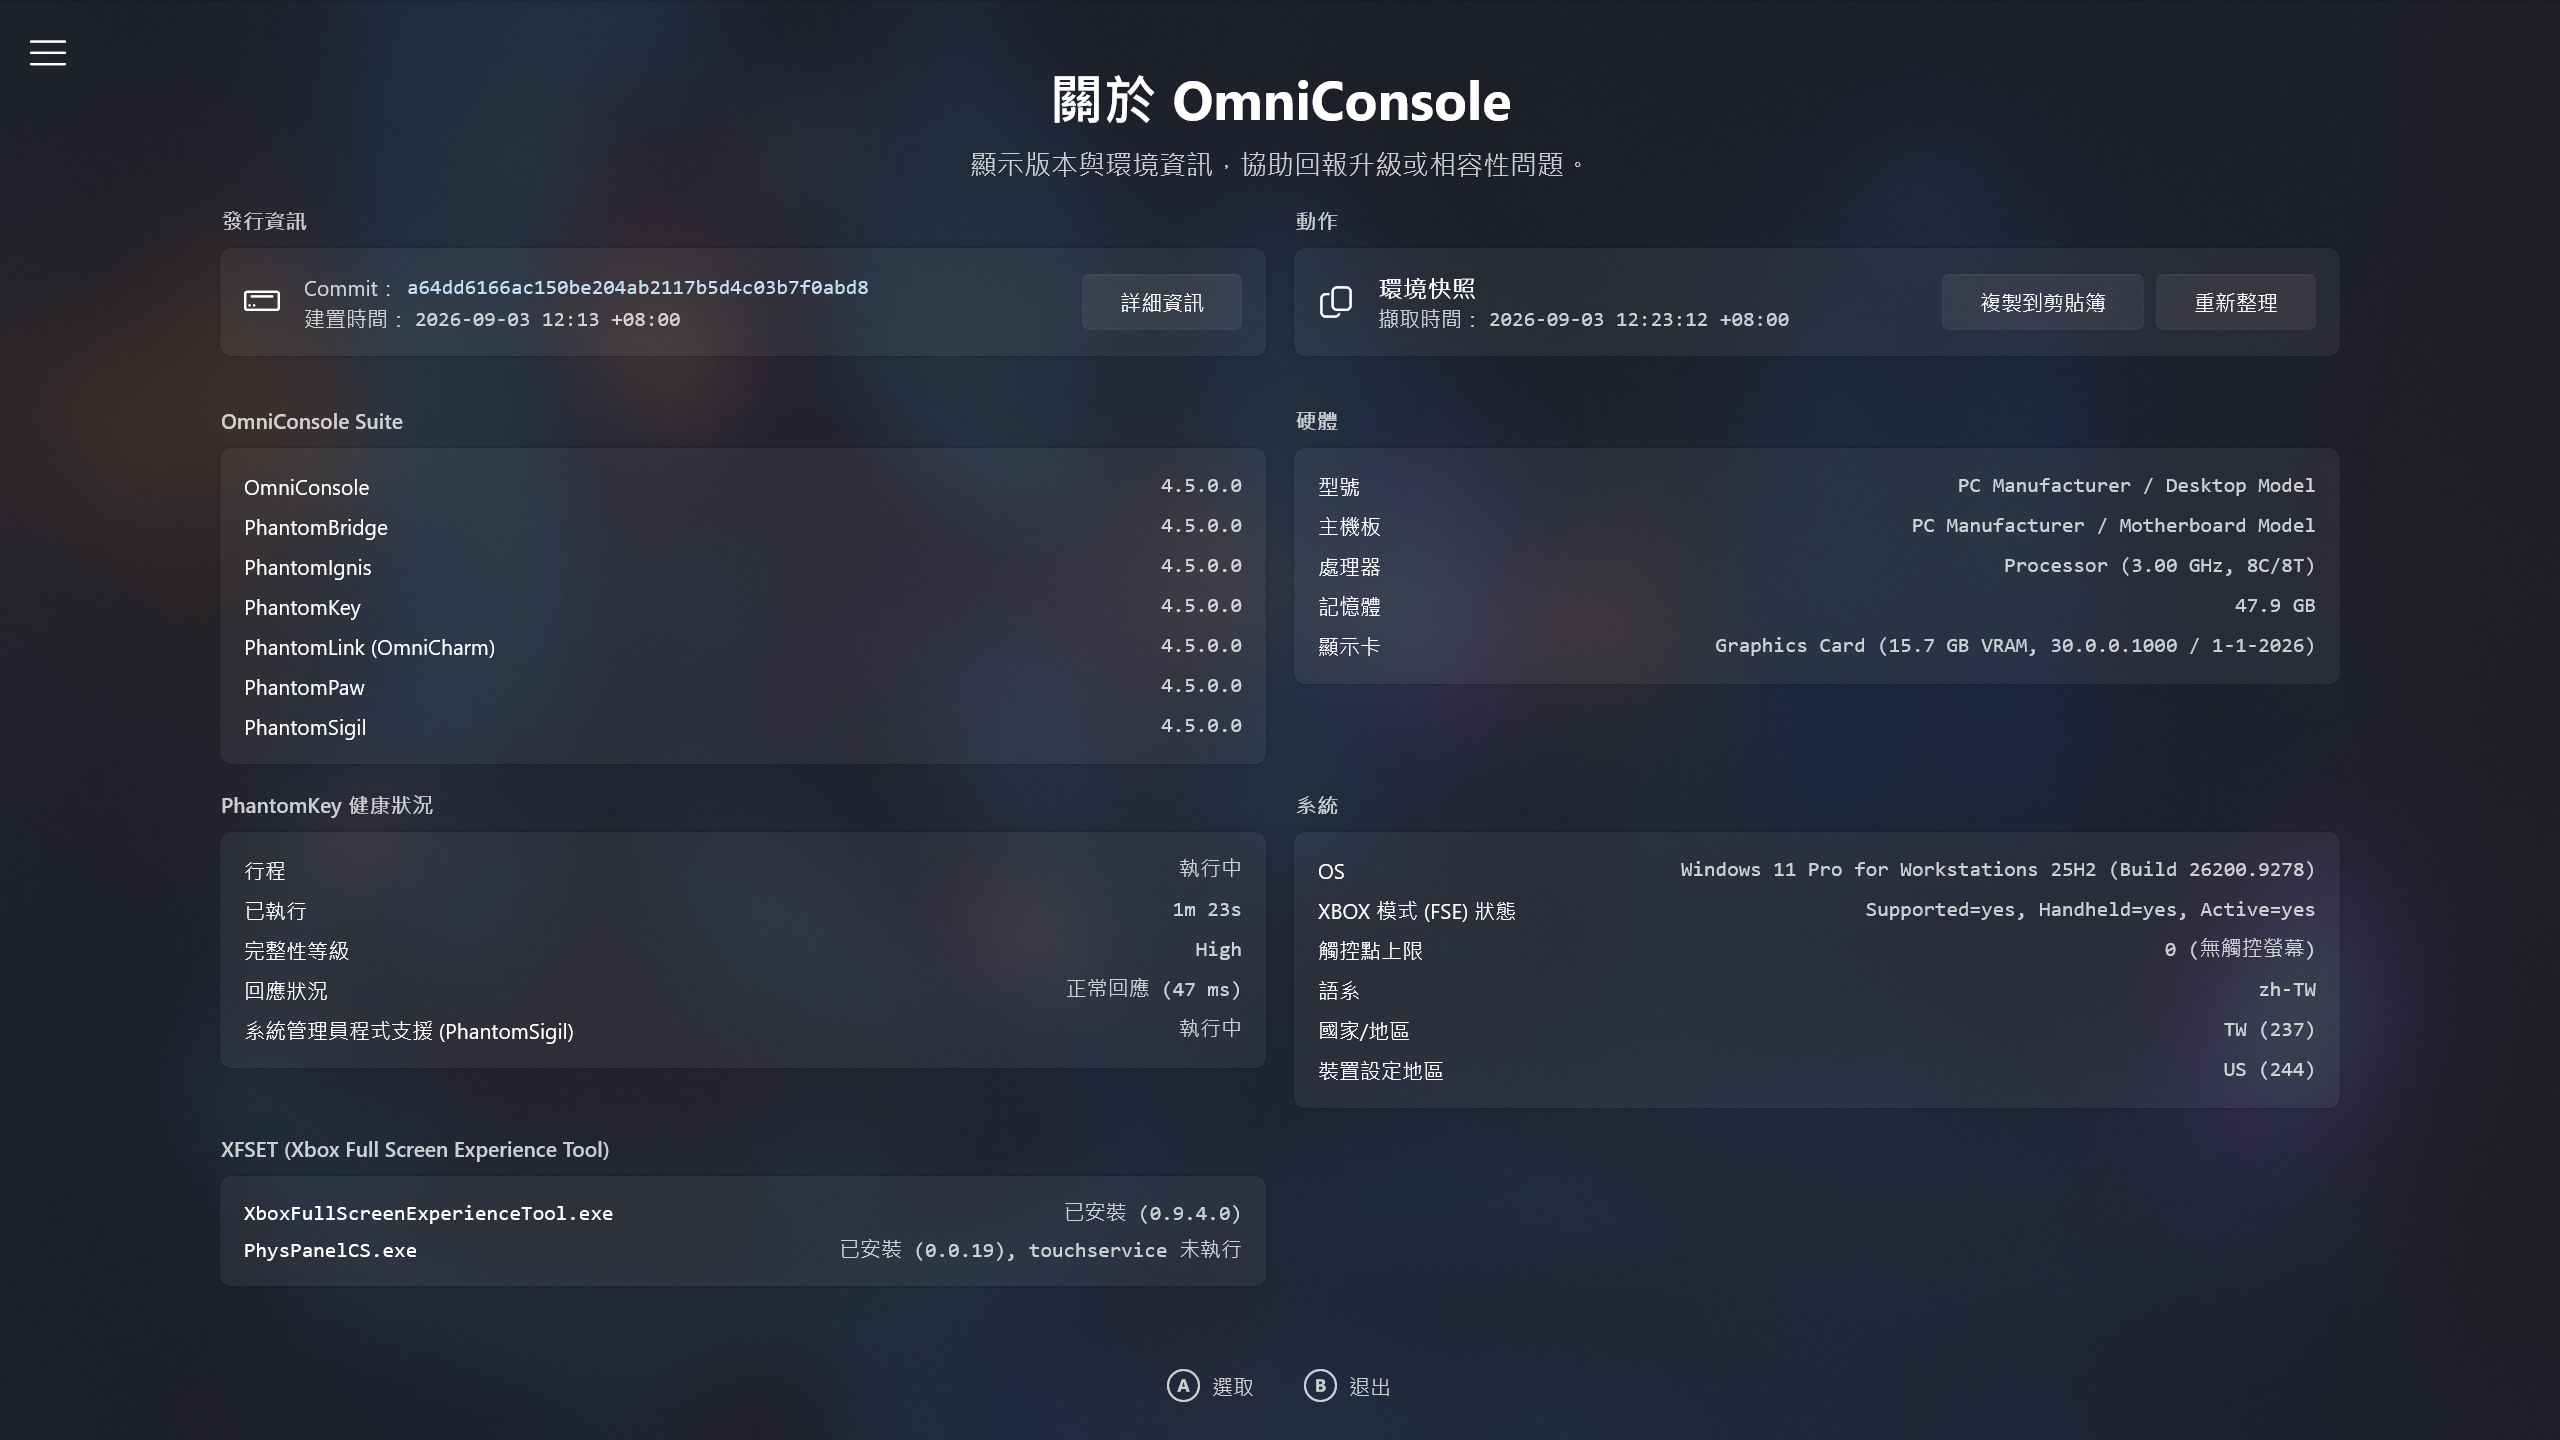
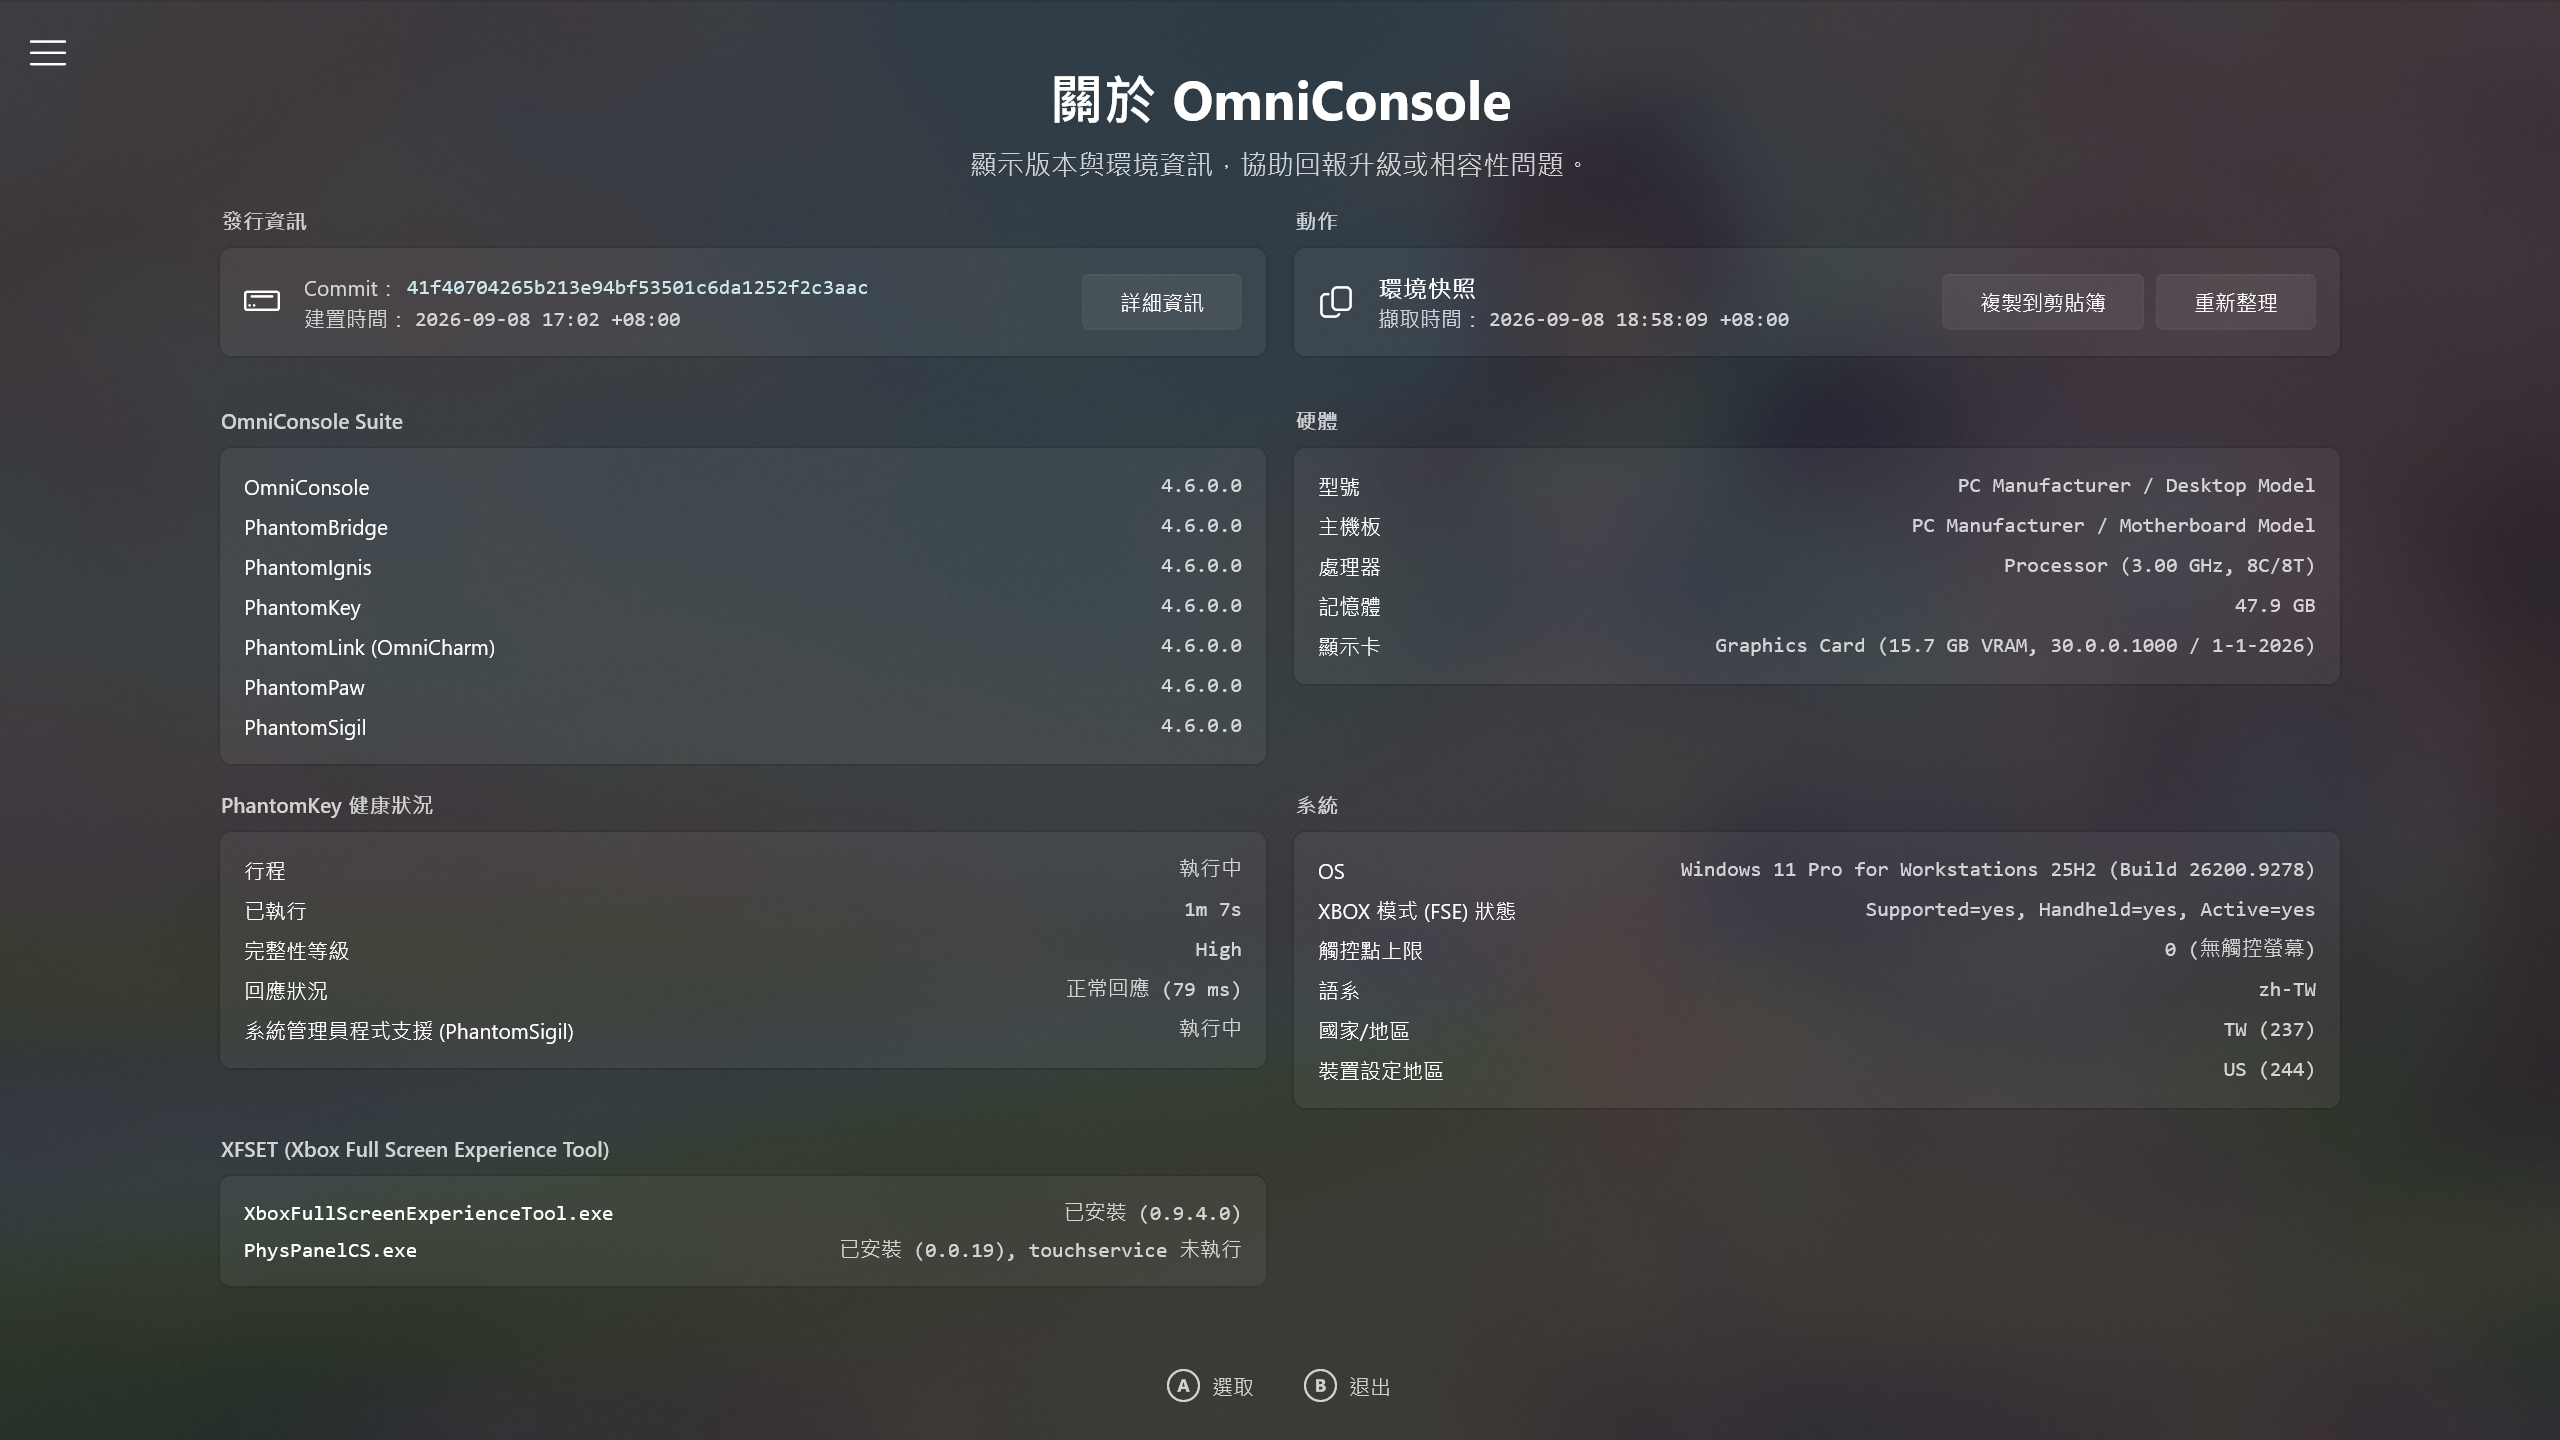
chore: Bump version to 4.6.0.0, introduce cursor size controls in OmniConsole & OmniCharm, resolve the WinUI 3 collapsed dropdown wheel & busy pointer quirks, and refresh the READMEs & screenshots

diff --git a/README.md b/README.md
@@ -31,7 +31,7 @@ Whenever XBOX Mode (FSE) activates, OmniConsole launches your configured gaming 
 ## ✨ Features
 
 - **Automatic platform launch** – Your configured gaming platform launches automatically whenever XBOX Mode (FSE) activates.
-- **Automatic XBOX Mode (FSE) entry** – When you launch OmniConsole outside XBOX Mode (FSE) (e.g., from the Start Menu), it automatically triggers the XBOX Mode (FSE) entry dialog.
+- **XBOX Mode (FSE) entry & exit** – When you launch OmniConsole outside XBOX Mode (FSE) (e.g., from the Start Menu), it automatically triggers the XBOX Mode (FSE) entry dialog. Under **Settings → Advanced → XBOX Mode (FSE)**, choose what happens when you enter from the desktop: **Ask every time**, **Restart (optimized performance)**, or **Start now (no performance changes)**. The confirmation on the way back to the Windows desktop is yours to keep or leave out as well.
 - **Multi-platform support** – Built-in support for **Steam Big Picture**, **XBOX App**, **Epic Games Store**, **Armoury Crate SE**, and **Playnite Fullscreen**.
 - **Custom platform support (Experimental)** – Add your own platforms via Protocol URI, executable path, or Packaged App (MSIX / APPX), with an optional card cover image. Launch arguments are available when using the executable path type.
 - **Platform import & export** – Share custom platform configurations as JSON, with per-user install paths saved as portable environment variables so a shared platform works on any console. Right-click or long-press a card to export; use the Import button to import shared configurations.
@@ -44,9 +44,10 @@ Whenever XBOX Mode (FSE) activates, OmniConsole launches your configured gaming 
 - **Troubleshoot page** – A dedicated page for XBOX Mode (FSE) recovery: restarts Game Bar to fix issues such as the "Restart for better performance" dialog not appearing, then enters XBOX Mode (FSE).
 - **Environment snapshot** – An "About" page that captures your system, hardware, and OmniConsole health status, with one-click copy as a Markdown report for easy bug reporting.
 - **Gamepad support** – Navigate with **D-Pad** or **Left Stick**; **A** to confirm, **B** to exit, **LB/RB** to switch category tabs, **Y** to add a custom platform, **X** to edit, and **Menu (☰)** to set the focused platform as default and launch it immediately (when running inside XBOX Mode (FSE)).
-- **OmniCharm widget** – A Game Bar widget for in-game quick access. Open **Task View**, the **XBOX Library**, **File Explorer**, or the **Steam Overlay** in one tap; toggle **Nekomata Mode**, controller layout preset, cursor speed, and the **Steam In-Game Overlay** (long-press ☰). File Explorer opens straight to **This PC**, and Nekomata Mode's built-in mapping already covers it, so you browse and open your files with the gamepad alone.
+- **OmniCharm widget** – A Game Bar widget for in-game quick access. Open **Task View**, the **XBOX Library**, **File Explorer**, or the **Steam Overlay** in one tap; toggle **Nekomata Mode**, controller layout preset, cursor speed and size, and the **Steam In-Game Overlay** (long-press ☰). File Explorer opens straight to **This PC**, and Nekomata Mode's built-in mapping already covers it, so you browse and open your files with the gamepad alone.
 - **Gamepad Steam shortcuts** – The gamepad **⧉** button controls Steam Big Picture shortcuts: short press opens the **Steam Menu**, long press opens the **Quick Access Menu**. Long press **☰** in-game to open the **Steam In-Game Overlay**.
 - **Nekomata Mode — gamepad as mouse and keyboard, custom per-app mapping** – When on, your customized profiles take over, while common apps such as browsers, File Explorer, the Windows file picker, Steam, Epic Games Store, EA Desktop, Playnite Desktop, and Discord run on OmniConsole's ready-made mapping, which you can customize too. Nekomata weaves a charm for each app, remapping XInput controls (A/B/X/Y, LB/RB, LT/RT, LS/RS, D-pad, both sticks) to a keyboard key, modifier combo, mouse button, scroll wheel, cursor movement, scrolling, arrow keys, or WASD, with three controller layouts to choose from: **OmniNav**, **Classic**, and a **Custom Layout** you define yourself (Pro). Each app's charm can also **raise the mapping service priority** with **Nekomata Boost** for demanding games, give any key a **hold-to-repeat** toggle, and **prevent double input** by blocking the app's own native XInput and DirectInput signals to keep them from interfering with the remapped keyboard and mouse. Open the editor from the OmniCharm widget's "Customize gamepad mapping for this app…" button.
+- **Cursor speed & size** – Under **Settings → Advanced → Nekomata** you can set the cursor’s movement speed from 25% to 200%, and its size from 100% up to 800%. The OmniCharm widget carries the same two sliders.
 - **Custom controller layout (Pro)** – Define your own default layout alongside OmniNav and Classic. Choose **Custom** under **Settings → Advanced → Nekomata → Controller Layout Preset**, then click **Edit…** to arrange the controller's inputs. Apps covered by built-in mapping pick it up right away, and every new app profile starts from it. The OmniCharm widget can switch to it as well.
 - **Administrator app support (Pro)** – Gamepad mappings reach apps and games that run as an administrator. Install it from **Settings → Advanced → Nekomata** and approve the administrator prompt, and Nekomata Mode extends to those apps, with the OmniCharm widget opening the mapping editor for them too.
 - **Screen keyboards from any button (Pro)** – Windows brings up a screen keyboard from Game Bar. Pro adds a direct route: assign one to a controller button and it opens without interrupting what you are doing. Pick the **Gamepad keyboard**, which you type on with the controller itself, or the classic **On-screen keyboard**, which you point at with the cursor. The On-screen keyboard also requires Administrator App Support.

diff --git a/README.zh-TW.md b/README.zh-TW.md
@@ -31,7 +31,7 @@ OmniConsole 在 PC 與掌機 (ROG Xbox Ally X 等) 上作為你的 Windows 11 XB
 ## ✨ 功能特色
 
 - **自動平台啟動** – XBOX 模式 (FSE) 啟用時，OmniConsole 自動啟動你設定的遊戲平台。
-- **自動進入 XBOX 模式 (FSE)** – 在 XBOX 模式 (FSE) 之外啟動 (例如從開始功能表) 時，OmniConsole 會自動觸發 XBOX 模式 (FSE) 進入對話方塊。
+- **XBOX 模式 (FSE) 的進入與離開** – 在 XBOX 模式 (FSE) 之外啟動 (例如從開始功能表) 時，OmniConsole 會自動觸發 XBOX 模式 (FSE) 進入對話方塊。在**設定 → 進階 → XBOX 模式 (FSE)** 可選擇從桌面進入時要做什麼：**每次詢問**、**重新啟動 (最佳化效能)**，或**立即開始 (效能不變)**。返回 Windows 桌面前的確認，同樣由你決定要不要保留。
 - **多平台支援** – 內建支援 **Steam Big Picture**、**XBOX 應用程式**、**Epic Games Store**、**Armoury Crate SE** 與 **Playnite 全螢幕**。
 - **自訂平台支援 (實驗性)** – 透過 Protocol URI、執行檔路徑或封裝套件 (MSIX / APPX) 新增自訂平台，可選填卡片封面圖。啟動參數僅在使用執行檔路徑類型時可用。
 - **平台匯入與匯出** – 以 JSON 格式分享自訂平台組態，使用者層級的安裝路徑會存成可攜的環境變數，讓分享出去的平台換到任何主機都能用。對卡片按右鍵或長按即可匯出；透過匯入按鈕可匯入他人分享的組態。
@@ -44,9 +44,10 @@ OmniConsole 在 PC 與掌機 (ROG Xbox Ally X 等) 上作為你的 Windows 11 XB
 - **疑難排解頁面** – XBOX 模式 (FSE) 救援專屬頁面：重啟 Game Bar 以修復「重新啟動以提升效能」對話方塊未出現等問題，接著進入 XBOX 模式 (FSE)。
 - **環境快照** – 「關於」頁面擷取系統、硬體與 OmniConsole 健康狀態，並支援一鍵複製為 Markdown 格式，方便回報問題。
 - **手把支援** – 以**十字鍵**或**左搖桿**導覽；**A 鍵**確認、**B 鍵**退出、**LB/RB** 切換分類索引標籤、**Y 鍵**新增自訂平台、**X 鍵**編輯，**Menu (☰) 鍵**將聚焦平台設為預設並立即啟動 (僅在 OmniConsole 於 XBOX 模式 (FSE) 中執行時可用)。
-- **OmniCharm 小工具** – 遊戲中快速存取的 Game Bar 小工具：一鍵開啟**工作檢視**、**XBOX 媒體櫃**、**檔案總管**或 **Steam 內嵌介面**；切換**貓又模式**、控制器預設版面、游標速度與 **Steam 遊戲內嵌介面** (長按 ☰)。檔案總管直接開啟**本機**，而貓又模式的內建映射涵蓋它，瀏覽與開啟檔案全程用手把就行。
+- **OmniCharm 小工具** – 遊戲中快速存取的 Game Bar 小工具：一鍵開啟**工作檢視**、**XBOX 媒體櫃**、**檔案總管**或 **Steam 內嵌介面**；切換**貓又模式**、控制器預設版面、游標速度與大小，以及 **Steam 遊戲內嵌介面** (長按 ☰)。檔案總管直接開啟**本機**，而貓又模式的內建映射涵蓋它，瀏覽與開啟檔案全程用手把就行。
 - **手把 Steam 快捷鍵** – 手把 **⧉** 按鍵對應 Steam Big Picture 模式快捷：短按開啟 **Steam 選單**，長按喚出**快速存取選單**。在遊戲中長按 **☰** 可開啟 **Steam 遊戲內嵌介面**。
 - **貓又模式 — 手把化身鍵鼠、自訂各程式映射** – 開啟時，你自訂的設定檔會接手，而瀏覽器、檔案總管、Windows 檔案選擇器、Steam、Epic Games Store、EA Desktop、Playnite 桌面版、Discord 等常見程式則套用 OmniConsole 預先備妥的映射，這些映射同樣能自訂。貓又為每個程式編一道咒，將 XInput 輸入位 (A/B/X/Y、LB/RB、LT/RT、LS/RS、十字鍵、雙搖桿) 重新映射為鍵盤按鍵、修飾鍵組合、滑鼠按鍵、滾輪、游標移動、捲動、方向鍵或 WASD，並提供三種控制器版面配置：**OmniNav**、**經典**，以及你自己定義的**自訂版面** (專業版)。每個程式的咒語還能以**貓又衝刺**提高映射服務優先順序，應付吃資源的遊戲，為任何按鍵開啟**長按連發**，並**避免雙重輸入**：阻擋該程式自身的原生 XInput 與 DirectInput 訊號，避免與映射後的鍵鼠相互干擾。從 OmniCharm 小工具的「自訂此程式的手把映射…」按鈕進入編輯器。
+- **游標速度與大小** – 在**設定 → 進階 → 貓又**，游標的移動速度可設在 25% 到 200%，大小可設在 100% 到 800%。OmniCharm 小工具也備有同一組滑桿。
 - **自訂控制器版面 (專業版)** – 在 OmniNav 與經典之外，自己定義一套預設版面。於**設定 → 進階 → 貓又 → 控制器預設版面**選擇**自訂**，再點 **編輯…** 編排手把的輸入位。內建映射涵蓋的程式會立即套用，新增的程式設定檔也以它為起點。OmniCharm 小工具同樣能切換到它。
 - **系統管理員程式支援 (專業版)** – 手把映射能作用於以系統管理員身分執行的程式與遊戲。在**設定 → 進階 → 貓又**點選**安裝**並通過系統管理員授權，貓又模式就會延伸到這類程式，OmniCharm 小工具也能為它們開啟映射編輯器。
 - **用手把叫出螢幕鍵盤 (專業版)** – Windows 本身就能從 Game Bar 叫出螢幕鍵盤。專業版多一條直達路線：把任一按鍵映射成喚出鍵盤，手邊的事不必中斷。可選用手把直接打字的**遊戲控制器鍵盤**，或以游標點按的**螢幕小鍵盤**。螢幕小鍵盤另需系統管理員程式支援。
